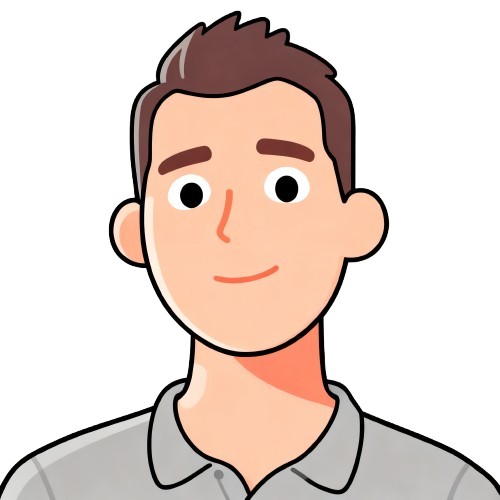
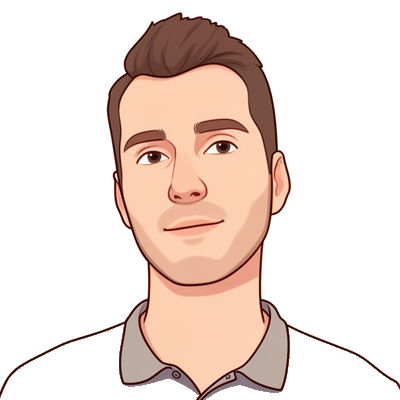
added new profile img

Changed region(s): [[0.0, 0.0, 1.0, 1.0]]

diff --git a/src/components/home/HeroSection.jsx b/src/components/home/HeroSection.jsx
@@ -1,6 +1,6 @@
 import React from 'react'
 import { useEffect, useState } from 'react'
-import portrait from '../../assets/hero-portrait.png'
+import portrait from '../../assets/hero-portrait-cartoon.png'
 
 const synopsis = `Stark på ehandel och interna verktyg. Erfarenhet som egenföretagare inom tekniska lösningar för cirkulär ekonomi av hemelektronik.`
 